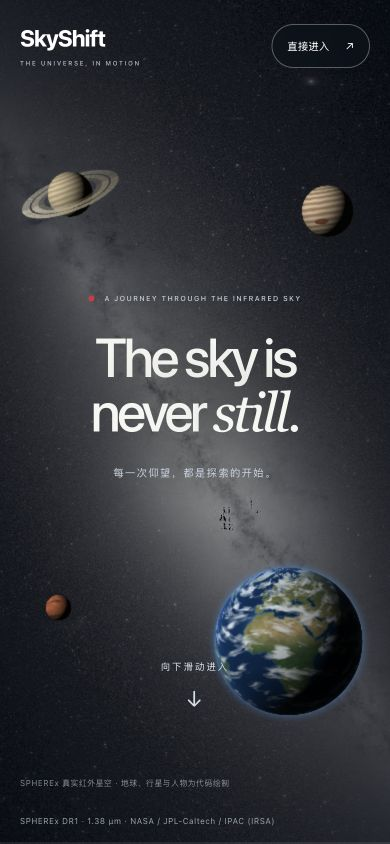
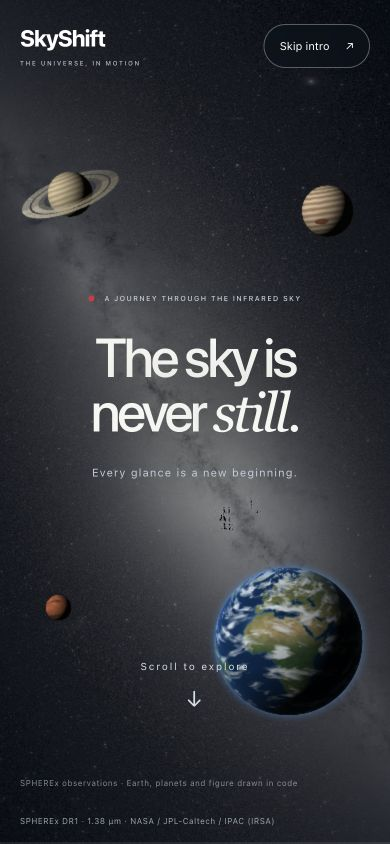
Use English throughout the opening and entry controls
Translate chapter copy, accessible labels, skip/replay controls, sky credits
and fallback/loading messages. Use an English Play navigation label and
refresh the desktop/mobile captures without changing the scroll behavior.

diff --git a/web/src/intro/index.ts b/web/src/intro/index.ts
@@ -7,14 +7,14 @@ export function mountIntro(root: HTMLElement, opts: {
 }) {
   const el = document.createElement('section');
   el.className = 'entry-intro'; el.hidden = true; el.tabIndex = 0;
-  el.setAttribute('aria-label', 'SkyShift 开场。向下滚动探索，或选择直接进入。');
+  el.setAttribute('aria-label', 'SkyShift opening. Scroll down to explore, or skip the intro.');
   el.innerHTML = `<div class="entry-scroll-space" aria-hidden="true"></div>
     <canvas class="entry-scene" aria-hidden="true"></canvas>
-    <header class="entry-intro-nav"><a class="entry-intro-brand" href="#/">SkyShift<span>THE UNIVERSE, IN MOTION</span></a><button class="entry-skip" type="button">直接进入 <span aria-hidden="true">↗</span></button></header>
-    <div class="entry-hero"><p class="entry-kicker"><i></i> A journey through the infrared sky</p><h1>The sky is<br>never <em>still.</em></h1><p class="entry-hero-copy">每一次仰望，都是探索的开始。</p><div class="entry-scroll-hint"><span>向下滑动进入</span><span aria-hidden="true">↓</span></div></div>
+    <header class="entry-intro-nav"><a class="entry-intro-brand" href="#/">SkyShift<span>THE UNIVERSE, IN MOTION</span></a><button class="entry-skip" type="button">Skip intro <span aria-hidden="true">↗</span></button></header>
+    <div class="entry-hero"><p class="entry-kicker"><i></i> A journey through the infrared sky</p><h1>The sky is<br>never <em>still.</em></h1><p class="entry-hero-copy">Every glance is a new beginning.</p><div class="entry-scroll-hint"><span>Scroll to explore</span><span aria-hidden="true">↓</span></div></div>
     <div class="entry-chapter" aria-hidden="true"><span class="entry-chapter-no"></span><p></p></div>
     <div class="entry-progress" aria-hidden="true"><span></span></div>
-    <p class="entry-art-credit">SPHEREx 真实红外星空 · 地球、行星与人物为代码绘制</p>`;
+    <p class="entry-art-credit">SPHEREx observations · Earth, planets and figure drawn in code</p>`;
   root.append(el);
   const canvas = el.querySelector<HTMLCanvasElement>('canvas')!;
   const hero = el.querySelector<HTMLElement>('.entry-hero')!;
@@ -33,7 +33,7 @@ export function mountIntro(root: HTMLElement, opts: {
     hero.hidden = p > .15;
     fill.style.transform = `scaleX(${p})`;
     el.querySelector<HTMLElement>('.entry-intro-brand')!.style.opacity = String(1 - smooth(p, .88, .91));
-    const text = p < .25 ? ['01 / 04', '从遥远星空，回到一次仰望。'] : p < .45 ? ['02 / 04', '故事，从地球上的一个人开始。'] : p < .70 ? ['03 / 04', '看近一点。再近一点。'] : ['04 / 04', '你眼中的星空，也藏着新的发现。'];
+    const text = p < .25 ? ['01 / 04', 'From the cosmos to a single gaze.'] : p < .45 ? ['02 / 04', 'Every discovery begins with a look.'] : p < .70 ? ['03 / 04', 'Look closer. Then closer still.'] : ['04 / 04', 'A universe of discoveries, in your eyes.'];
     chapter.querySelector('span')!.textContent = text[0]; chapter.querySelector('p')!.textContent = text[1];
     chapter.style.opacity = p > .12 && p < .88 ? '1' : '0';
     el.querySelector<HTMLElement>('.entry-art-credit')!.style.opacity = p < .9 ? '.65' : '0';

diff --git a/web/src/intro/sky.ts b/web/src/intro/sky.ts
@@ -34,7 +34,7 @@ export function observationTexture(): Promise<HTMLCanvasElement> {
 
 export function mountEntrySky(host: HTMLElement) {
   host.inert = true;
-  host.innerHTML = '<div class="entry-sky-field"><canvas class="entry-local-sky"></canvas><div class="entry-hips"></div></div><p class="entry-sky-credit">SPHEREx · NASA / JPL-Caltech / IPAC · 红外观测</p>';
+  host.innerHTML = '<div class="entry-sky-field"><canvas class="entry-local-sky"></canvas><div class="entry-hips"></div></div><p class="entry-sky-credit">SPHEREx · NASA / JPL-Caltech / IPAC · Infrared observations</p>';
   const field = host.querySelector<HTMLElement>('.entry-sky-field')!;
   const canvas = host.querySelector<HTMLCanvasElement>('canvas')!;
   const hips = host.querySelector<HTMLElement>('.entry-hips')!;
@@ -61,8 +61,8 @@ export function mountEntrySky(host: HTMLElement) {
     observationTexture().then(t => {
       if (destroyed) return;
       texture = t; resize();
-      if (!host.classList.contains('has-hips')) credit.textContent = 'SPHEREx · Barnard’s Star 天区 · NASA / IPAC · 本地真实观测';
-    }).catch(() => { if (!destroyed && !host.classList.contains('has-hips')) credit.textContent = '星图暂不可用 · 仍可直接进入探索'; });
+      if (!host.classList.contains('has-hips')) credit.textContent = 'SPHEREx · Barnard’s Star field · NASA / IPAC · Local observation';
+    }).catch(() => { if (!destroyed && !host.classList.contains('has-hips')) credit.textContent = 'Sky map unavailable · You can still enter Explore'; });
     const ticket = ++generation;
     try {
       const A = await loadAladinOnce({ timeoutMs: 5000 });
@@ -84,7 +84,7 @@ export function mountEntrySky(host: HTMLElement) {
           host.classList.add('has-hips');
           credit.textContent = 'SPHEREx DR1 · 1.38 μm · NASA / JPL-Caltech / IPAC (IRSA)';
         },
-        errorCallback() { host.classList.remove('has-hips'); credit.textContent = 'SPHEREx · Barnard’s Star 天区 · 本地真实观测'; },
+        errorCallback() { host.classList.remove('has-hips'); credit.textContent = 'SPHEREx · Barnard’s Star field · Local observation'; },
       });
       al.setBaseImageLayer(layer);
       al.gotoRaDec(266, -29);

diff --git a/web/src/intro/dashboard.ts b/web/src/intro/dashboard.ts
@@ -16,7 +16,7 @@ export function mountEntryDashboard(root: HTMLElement, opts: { target(slug: stri
   shell.className = 'entry-dashboard';
   shell.innerHTML = `<div class="entry-header" data-reveal="0"></div>
     <div class="entry-content">
-      <div class="entry-heading" data-reveal="0"><div><p class="entry-eyebrow">A different way to look</p><h1>Every sky has a story.</h1><p>Compare real SPHEREx observations. Find what moves.</p></div><button type="button" class="entry-replay">↗ 重看开场</button></div>
+      <div class="entry-heading" data-reveal="0"><div><p class="entry-eyebrow">A different way to look</p><h1>Every sky has a story.</h1><p>Compare real SPHEREx observations. Find what moves.</p></div><button type="button" class="entry-replay">↗ Replay intro</button></div>
       <section class="entry-targets" aria-label="Five featured targets" data-reveal="1">${TARGETS.slice(0, 5).map((t, i) => `<button type="button" class="entry-target" data-target="${t.slug}" aria-pressed="false"><span class="entry-target-kind"><span class="entry-target-number">0${i + 1}</span> ${esc(t.kind)}</span><strong>${esc(t.short)} <span aria-hidden="true">↗</span></strong></button>`).join('')}</section>
       <div class="entry-workspace-grid"><div class="entry-player" data-reveal="2"><div class="entry-panel-title"><span><i></i> The observation desk</span><span>Real data · SPHEREx</span></div></div>
         <aside class="entry-discoveries" aria-labelledby="entry-candidates-title" data-reveal="3"><div class="entry-discovery-heading"><span class="entry-eyebrow">Look a little closer</span><h2 id="entry-candidates-title">Signals to explore <span aria-hidden="true">↗</span></h2><p>Candidate signals awaiting review.</p></div><div class="entry-candidate-content" aria-live="polite"><p class="entry-empty">Loading candidate signals…</p></div><a class="entry-review-all" href="#/candidates">View all candidates <span aria-hidden="true">→</span></a></aside>

diff --git a/web/src/app/app.ts b/web/src/app/app.ts
@@ -59,7 +59,7 @@ export function startApp(root: HTMLElement): void {
         <a href="#/learn" data-route="learn">Learn</a>
         <a href="#/tools" data-route="tools">Tools &amp; data</a>
         <a href="#/about" data-route="about">About</a>
-        <a href="#/play" data-route="play">Play · 星空捉迷藏</a>
+        <a href="#/play" data-route="play">Play · Sky hunt</a>
       </nav>
       <div class="details-slot"></div>
     </header>
@@ -199,7 +199,7 @@ export function startApp(root: HTMLElement): void {
     frameCtl?.abort();
     frameCtl = new AbortController();
     const fsig = frameCtl.signal;
-    const finishLoading = eyeLoading.begin(next.slug ? '正在读取 SPHEREx 观测…' : '正在查询新的天区，读取 SPHEREx 观测…');
+    const finishLoading = eyeLoading.begin(next.slug ? 'Loading SPHEREx observations…' : 'Searching this sky region and loading SPHEREx observations…');
     blink.status("loading", next.slug ? "Loading frames…" : "Building frames from SPHEREx (up to 15 s)…");
 
     frames = null;

diff --git a/web/src/intro/sky.test.ts b/web/src/intro/sky.test.ts
@@ -19,7 +19,7 @@ describe('real-sky fallback', () => {
     const { mountEntrySky } = await import('./sky');
     const host = document.createElement('div'); document.body.append(host);
     const sky = mountEntrySky(host); sky.active(true);
-    await vi.waitFor(() => expect(host.textContent).toContain('本地真实观测'));
+    await vi.waitFor(() => expect(host.textContent).toContain('Local observation'));
     expect(putImageData).toHaveBeenCalledTimes(1); expect(drawImage).toHaveBeenCalled();
     expect(host.classList.contains('has-hips')).toBe(false);
     sky.active(false); expect(host.hidden).toBe(true);

diff --git a/docs/scroll-intro.md b/docs/scroll-intro.md
@@ -12,6 +12,8 @@ black skin, dress, headdress and jewellery use the supplied drawing without resh
 `web/src/intro/model.ts` maps normalized native scroll position directly to camera state.
 The scroll container is 650 svh; requestAnimationFrame batches scroll/resize painting without
 time-based interpolation. Scrolling backwards reverses the shot. Resize preserves progress.
+The opening's captions, accessible labels, skip/replay controls, sky credits, fallback states
+and query loading messages are all English. Header navigation uses “Play · Sky hunt”.
 
 | Progress | Scene |
 | --- | --- |
@@ -73,8 +75,8 @@ No planetary photograph, video or AI-generated bitmap is used.
 
 Fresh `#/` visits enter the opening. `#/explore`, `?target=<known slug>`, legacy `?t=`,
 coordinate links and embeds bypass it. Explicit Learn/Play and other page routes retain their
-meaning. Completion or the persistent “直接进入” button records `skyshift:intro:v1:seen` and
-enters `#/explore`. Storage failure is harmless. The dashboard's “重看开场” replays it in memory.
+meaning. Completion or the persistent “Skip intro” button records `skyshift:intro:v1:seen` and
+enters `#/explore`. Storage failure is harmless. The dashboard's “Replay intro” replays it in memory.
 Reduced-motion users enter Explore immediately and get a static loading eye.
 
 The dashboard rehomes the existing header/search and player DOM; there is still exactly one
@@ -119,7 +121,7 @@ overflow, skip/replay and completion into Explore. These are browser viewport ch
 physical-phone frame-rate certification.
 
 Run the existing Vite preview at <http://127.0.0.1:5173/>. Returning visitors can select
-“重看开场”. See `frontend-unification.md` for local API and dependency setup.
+“Replay intro”. See `frontend-unification.md` for local API and dependency setup.
 
 These captures are screenshots of the running local tool, not generated concept art:
 

diff --git a/web/DESIGN.md b/web/DESIGN.md
@@ -15,6 +15,8 @@ its centimetre coordinates to the existing camera; head and pupil anchors come f
 No other part of the separate opening prototype is loaded by this integration. There are no
 video files or AI-generated visual assets.
 The same live dashboard emerges at the end and becomes interactive at `#/explore`.
+Opening captions and accessibility labels, skip/replay controls, source/fallback credits and
+query loading messages use English throughout.
 
 The space opening now uses a spherical Earth with Natural Earth coastline vectors, procedural
 ocean/land/cloud materials, a curved terminator, ocean glint and atmosphere. Saturn (occluded
@@ -27,7 +29,7 @@ Entry/Explore-only styles live in `src/intro/intro.css`: persistent search/navig
 cards, the existing player and real candidate signals. The light shell leaves the sky visible
 between panels. On phones panels stack, target cards scroll horizontally and the original
 Details controls remain accessible. Deep links, returning visitors and reduced-motion users
-bypass the opening; “重看开场” is available on the dashboard.
+bypass the opening; “Replay intro” is available on the dashboard.
 
 See [scroll-intro.md](../docs/scroll-intro.md) for phase boundaries, provenance, tests and actual
 browser captures. The older atlas specification below describes the atlas route and product
